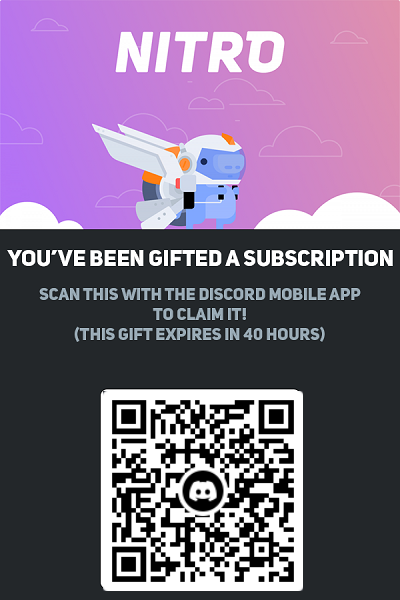
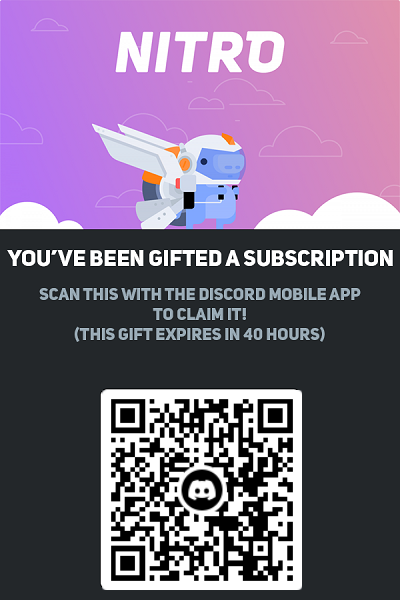
v1.0.0

Changed region(s): [[0.27, 0.66, 0.75, 0.99]]

diff --git a/dist/index.js b/dist/index.js
@@ -82,8 +82,8 @@ class DiscordTQR {
                         options.template === "default"
                             ? {
                                 path: tmpFile,
-                                x: 103,
-                                y: 391,
+                                x: 102,
+                                y: 390,
                                 width: 200,
                                 height: 200,
                             }

diff --git a/test/test.js b/test/test.js
@@ -8,7 +8,7 @@ const DiscordTQR = require("../dist").default;
     console.log("Creating qr code...");
     await handler.getQRCode({
       path: path.resolve(__dirname, "../assets/qr-with-template.png"),
-      // browserOptions: { headless: false },
+      // browserOptions: { headless: false, defaultViewport: null },
       template: "default",
     });
     console.log("QR code created !");

diff --git a/index.ts b/index.ts
@@ -118,8 +118,8 @@ class DiscordTQR {
           options.template === "default"
             ? {
                 path: tmpFile,
-                x: 103,
-                y: 391,
+                x: 102,
+                y: 390,
                 width: 200,
                 height: 200,
               }
